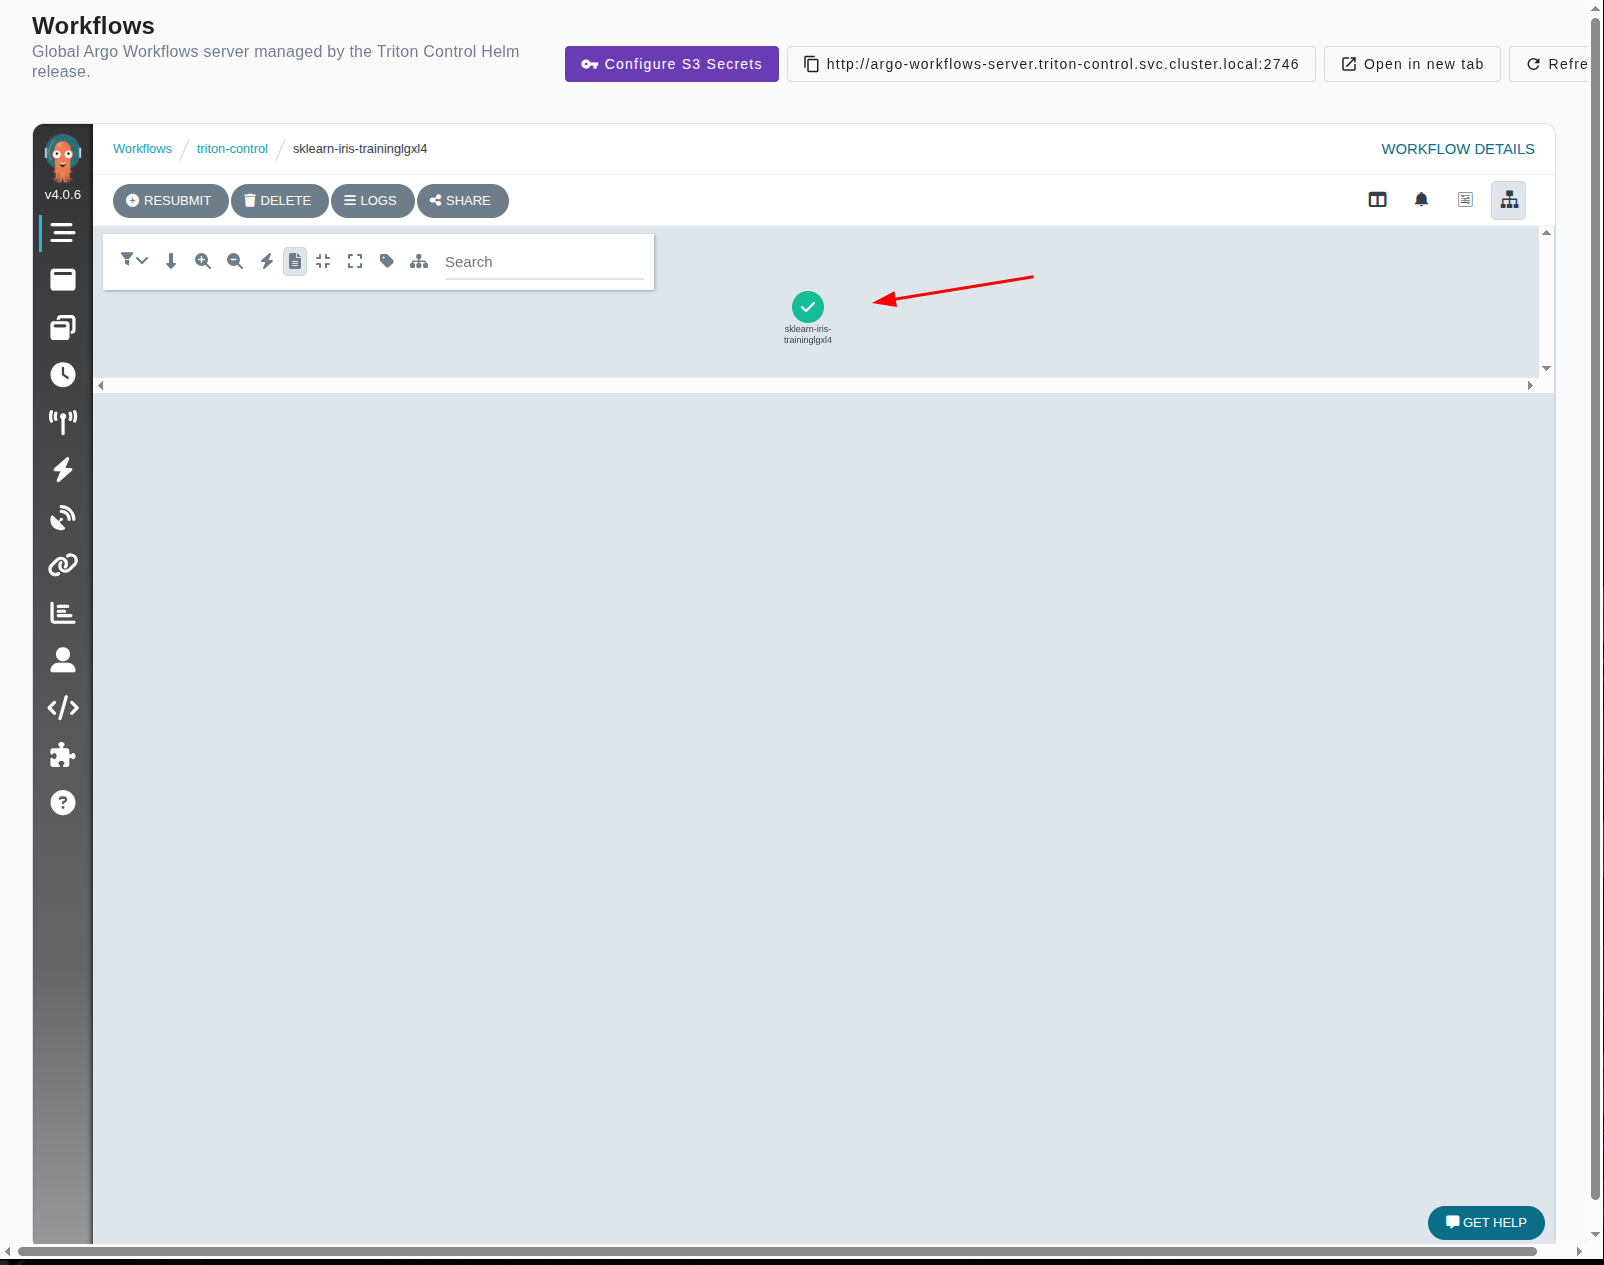
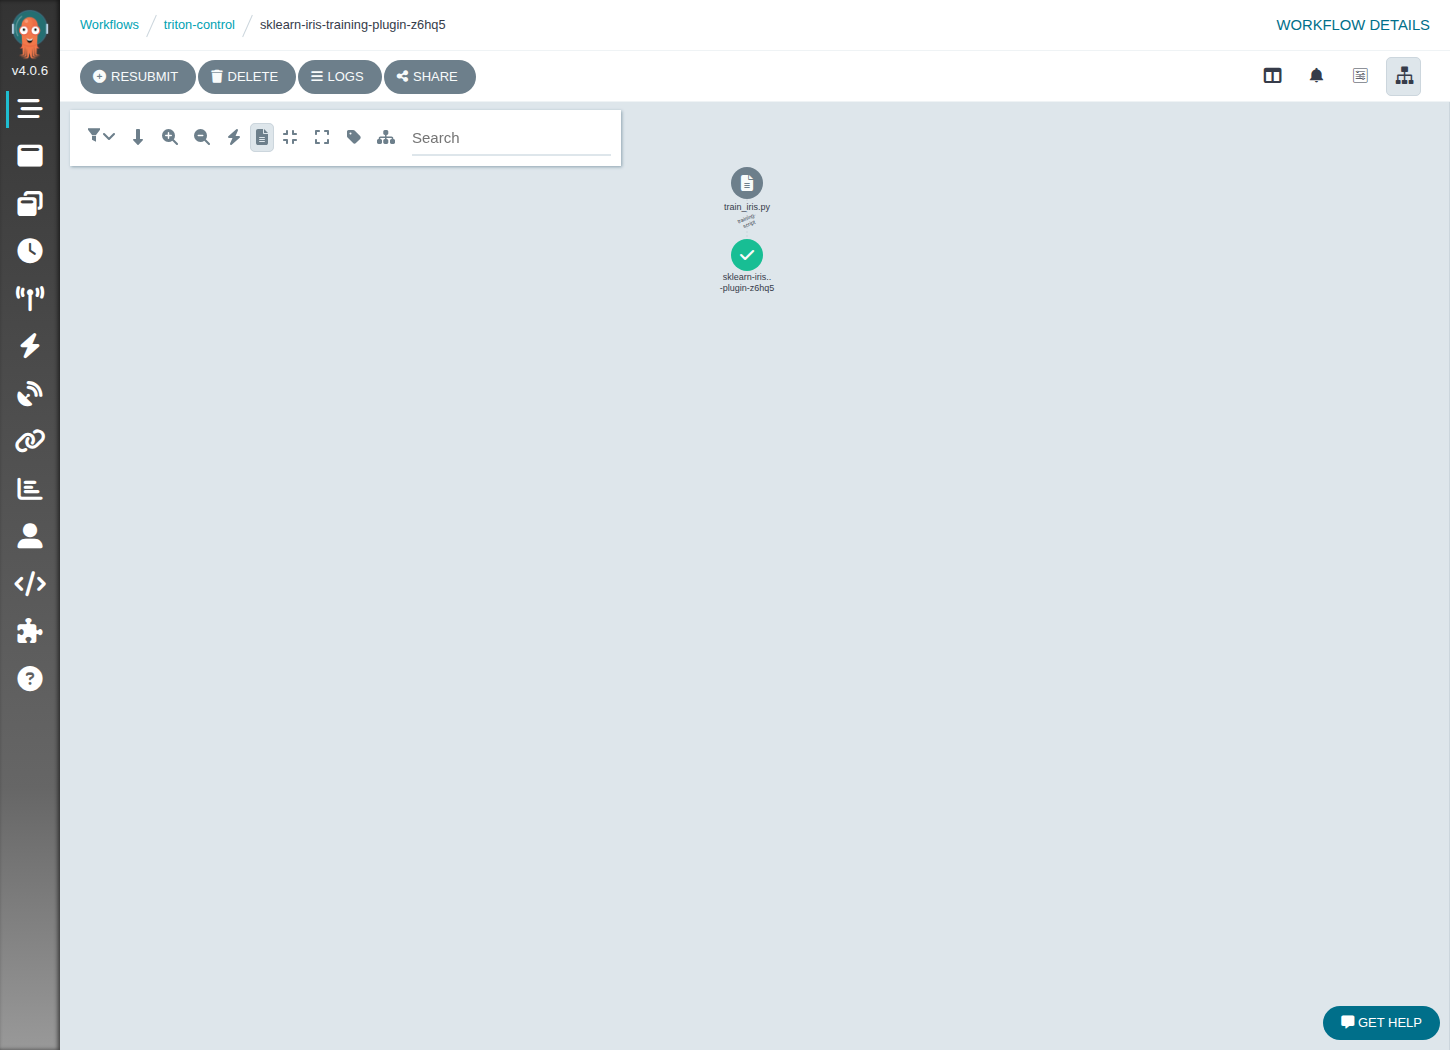
feat: update README with S3 profile requirements and add new screenshots for code-server S3 operations

Changed region(s): [[0.0, 0.0, 1.0, 1.0]]

diff --git a/examples/workflows/sklearn-iris-training/README.md b/examples/workflows/sklearn-iris-training/README.md
@@ -10,8 +10,13 @@ the object store.
 ## Prerequisites
 
 - Argo Workflows is enabled in Triton Control.
-- You have an existing S3-compatible bucket and credentials that can read the
-  uploaded training script and write below the selected output prefix.
+- You have an existing S3-compatible bucket and a saved profile under the Triton
+  Control account menu's **S3 Profiles**. Use the same account for the workspace
+  and workflow profile link.
+- The profile's credentials allow listing the bucket, reading the training script,
+  and writing the script and run outputs. The endpoint must be reachable from
+  both the workspace and workflow pods. For HTTPS with a custom CA, include the
+  public CA certificate in the saved profile.
 
 
 ## 1. Create a Development Workspace
@@ -28,7 +33,8 @@ writing and testing the training code:
 
 When the workspace is ready, open code-server from **Development**. Triton
 Control installs the Development runtime because the Python image does not
-include code-server.
+include code-server. It also installs the **Triton Control Deploy** plugin, whose
+S3 browser appears alongside the workspace folders in **Explorer**.
 
 ![Create a Triton Control workspace](screenshots/create-workspace-v2.png)
 
@@ -47,19 +53,28 @@ Edit the script in the workspace to try a different model, feature processing,
 or training arguments. Keep the output files, or update the validation and
 artifact expectations in `workflow.yaml` to match your own script.
 
-## 3. Install, Configure, and Use an S3 Client
+## 3. Upload the Training Script
 
-The workspace needs an S3 client to upload the training script. Choose AWS CLI
-or More Connect.
+Choose either **AWS CLI** in the workspace terminal or the bundled
+**code-server S3 plugin** in Explorer.
 
 ### AWS CLI
 
 Install and configure AWS CLI in the workspace terminal:
 
 ```bash
-python -m pip install --user awscli
+python3 -m pip install --user awscli
 aws configure --profile workflow-training
 ```
+
+If the saved S3 profile uses path-style addressing, configure the CLI to match:
+
+```bash
+aws configure set s3.addressing_style path --profile workflow-training
+```
+
+For a provider requiring virtual-hosted addressing, use `virtual` instead of
+`path`.
 
 For HTTPS with a custom CA, save the public CA bundle to a workspace file and
 configure AWS CLI in the terminal before uploading:
@@ -89,40 +104,69 @@ aws --profile workflow-training \
   s3://<your-s3-bucket>/workflows/sklearn-iris-training/train_iris.py
 ```
 
-### More Connect
+Use the endpoint and bucket from the Triton Control S3 profile you will link
+in step 4. If you use its browsing prefix (for example, `team-a`), include it
+explicitly in the upload destination:
+`s3://<your-s3-bucket>/team-a/workflows/sklearn-iris-training/train_iris.py`.
+Use that same full object key in `workflow.yaml`.
 
-In code-server's Extensions view, install
-[More Connect](https://open-vsx.org/extension/ucodkr/more-connect) (`ucodkr.more-connect`).
+### Code-Server S3 Plugin
 
-In **More Connect → S3 Browser**, add an S3 host and select **AWS S3**, **MinIO**,
-or **S3 Compatible**. Enter the S3 API endpoint without a bucket name, region,
-access key ID, and secret access key. MinIO automatically uses path-style access;
-for other compatible providers, select the addressing mode they require.
-More Connect supports HTTP and HTTPS. For HTTPS, the hostname must match the
-server certificate; the endpoint must be reachable from the workspace pod.
+Use the bundled **Triton Control Deploy** plugin in code-server's **Explorer**.
+It loads endpoint, bucket, credentials, addressing mode, and the optional CA
+certificate dynamically from your saved Triton Control S3 profile.
 
-For a private/custom CA, use **Explorer → S3 Browser** with a saved S3
-profile containing the CA certificate. It applies that certificate dynamically
-for the selected profile. More Connect has separate connection settings and
-does not inherit Triton Control profiles.
+1. In **Explorer**, right-click the workspace folder and choose
+   **S3 Operations → Choose Profile…**, then select your saved profile.
+   If already connected, use **S3 Operations → Switch Profile…** to select it.
+2. Expand **S3 · <profile name> · <bucket>** beside the workspace folder.
+3. Under that S3 root, create or open `workflows/sklearn-iris-training/` using
+   Explorer's **New Folder** action.
+4. Drag `/workspace/sklearn-iris-training/train_iris.py` from the workspace
+   tree onto that S3 folder. Workspace-to-S3 dragging copies the file and leaves
+   the workspace source in place.
+5. Wait for the transfer to finish and confirm that `train_iris.py` appears in
+   the destination folder. Open it from the S3 tree to check the uploaded code.
 
-To upload the example folder with More Connect:
+You can also right-click the workspace file and choose **S3 Operations → Copy**,
+then right-click the destination S3 folder and choose **S3 Operations → Paste**.
+To copy the entire `sklearn-iris-training` folder, drop it onto `workflows/`;
+the plugin preserves the outer folder name.
 
-1. In your bucket, create/open the destination `workflows/sklearn-iris-training/`.
-2. Click the **cloud-upload icon beside that S3 folder**, then choose **Upload Folder**.
-3. Select `/workspace/sklearn-iris-training/` and click **Upload**.
+With an empty profile prefix, the uploaded script is:
 
-More Connect uploads the folder's **contents**, including subdirectories, into
-the selected S3 destination; it does not add the outer folder name. Version 0.1.31
-supports **Upload Folder**, but not drag-and-drop.
+```text
+s3://<your-s3-bucket>/workflows/sklearn-iris-training/train_iris.py
+```
 
-Use **More Connect** for folder uploads; **S3/R2 Explorer** does not support them.
+If the profile has a prefix such as `team-a`, Explorer's S3 root starts at that
+prefix. The full script key is then
+`team-a/workflows/sklearn-iris-training/train_iris.py`. Include that prefix in
+both workflow object-path parameters in step 5.
+
+Drag-and-drop follows these rules:
+
+- Workspace ↔ S3, or between different S3 profiles: copy.
+- Within the same S3 profile: move.
+- **Ctrl-drag** forces copy (Option on macOS); **Shift-drag** forces move.
+
+The screenshot below shows the uploaded script open from S3 beside the local
+workspace. The validation run uses an isolated `sklearn-iris-review-…/plugin/`
+folder; use the object key you configured for your own run.
+
+![Training script uploaded and opened through the code-server S3 plugin](screenshots/code-server-s3-upload.png)
+
+Use **S3 Operations → Disconnect** to remove the S3 connection from Explorer.
 
 ## 4. Link the S3 Profile
 
-In **Workflows → Configure S3 Secrets**, select your **S3 profile** and click
-**Link profile**. Triton Control creates a Secret and an Argo repository ConfigMap
-in the workflow namespace. Endpoint, bucket, region, credentials, and the optional
+In **Workflows → Configure S3 Secrets**, select the Triton Control S3 profile
+for the endpoint and bucket used in step 3, then click **Link profile**. If you
+used the code-server plugin, select the same profile. AWS CLI profiles are
+configured separately and are not linked automatically.
+
+Triton Control creates a Secret and an Argo repository ConfigMap in the workflow
+namespace. Endpoint, bucket, region, credentials, and the optional
 HTTPS CA certificate sync automatically when the profile is saved. The ConfigMap
 stores connection settings; the Secret stores credentials and the CA certificate.
 
@@ -155,6 +199,9 @@ with the linked repository. Set only the object paths in `spec.arguments.paramet
 | `s3-output-prefix` | `workflows/sklearn-iris-training/runs` | Parent prefix for run outputs |
 
 Object paths are full bucket keys; the profile's browsing prefix is not added.
+For example, with the `team-a` prefix from step 3, set `s3-script-key` to
+`team-a/workflows/sklearn-iris-training/train_iris.py` and `s3-output-prefix` to
+`team-a/workflows/sklearn-iris-training/runs`.
 For HTTPS with a custom CA, save the public CA certificate in the S3 profile;
 Triton Control adds Argo's certificate reference automatically.
 
@@ -164,14 +211,19 @@ In Argo Workflows:
 
 1. Select **Submit New Workflow**.
 2. Select **Edit using full workflow options**.
-3. Paste the configured contents of `workflow.yaml`.
+3. Paste the configured contents of `workflow.yaml`, or use **Upload File**
+   to select the configured manifest from your computer.
 4. Create the workflow.
 
 ![Submit a new workflow in Argo Workflows](screenshots/argo-submit-new-workflow.png)
 
 ![Open the full workflow editor](screenshots/argo-edit-full-workflow-options.png)
 
-![Create the workflow from the manifest](screenshots/argo-create-workflow-manifest.png)
+The manifest screenshot uses the validation run's generated repository name
+and isolated S3 keys. Copy your own `artifactRepositoryRef` and object keys as
+explained in step 5.
+
+![Create the S3 artifact workflow from the current manifest](screenshots/argo-create-workflow-manifest.png)
 
 Before the training container starts, the Argo executor downloads
 `s3-script-key` to `/tmp/train_iris.py`. The container installs the pinned
@@ -193,7 +245,7 @@ s3://<bucketname>/workflows/sklearn-iris-training/runs/
     `-- metrics.json
 ```
 
-Use the client you chose in step 3 to check these files.
+Use either method from step 3 to inspect the results.
 
 ### AWS CLI
 
@@ -214,12 +266,24 @@ aws --profile workflow-training \
   s3 cp "s3://<bucketname>/<s3-output-prefix>/<workflow-name>/metrics.json" -
 ```
 
-### More Connect
+Include any browsing prefix in `<s3-output-prefix>`, just as you did in
+`workflow.yaml`.
 
-In **More Connect → S3 Browser**, refresh the connection from step 3 and open
-`<bucketname> → <s3-output-prefix> → <workflow-name>`. Check that the four files
-shown above exist, then open or download `metrics.json` and `accuracy.txt` to
-inspect the results.
+### Code-Server S3 Plugin
+
+In code-server's **Explorer**, use **S3 Operations → Refresh** on the connected
+S3 root to load the results written by Argo. Expand
+`workflows/sklearn-iris-training/runs/<workflow-name>/` beneath the same profile
+root used in step 3. This relative path also applies to the `team-a` example
+when you included that prefix in both workflow parameters.
+
+Check that all four files shown above exist. Open `metrics.json` and
+`accuracy.txt` directly from the S3 tree to inspect the results. To keep a local
+copy of the run, drag its folder from S3 onto `/workspace/sklearn-iris-training/`
+in Explorer. The default S3-to-workspace drag copies the results and leaves
+the S3 originals in place.
+
+![Argo training outputs and metrics in the code-server S3 plugin](screenshots/code-server-s3-results.png)
 
 The Argo Workflow also exposes `accuracy` as an output parameter and records
 the S3 location as the `training-results` output artifact.
